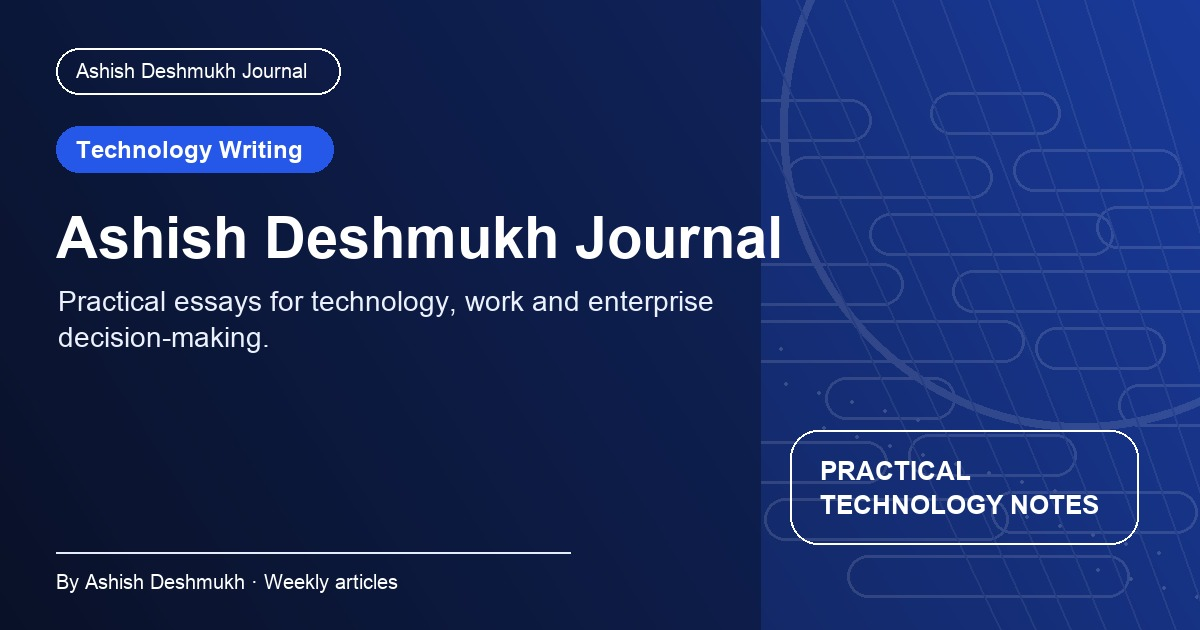
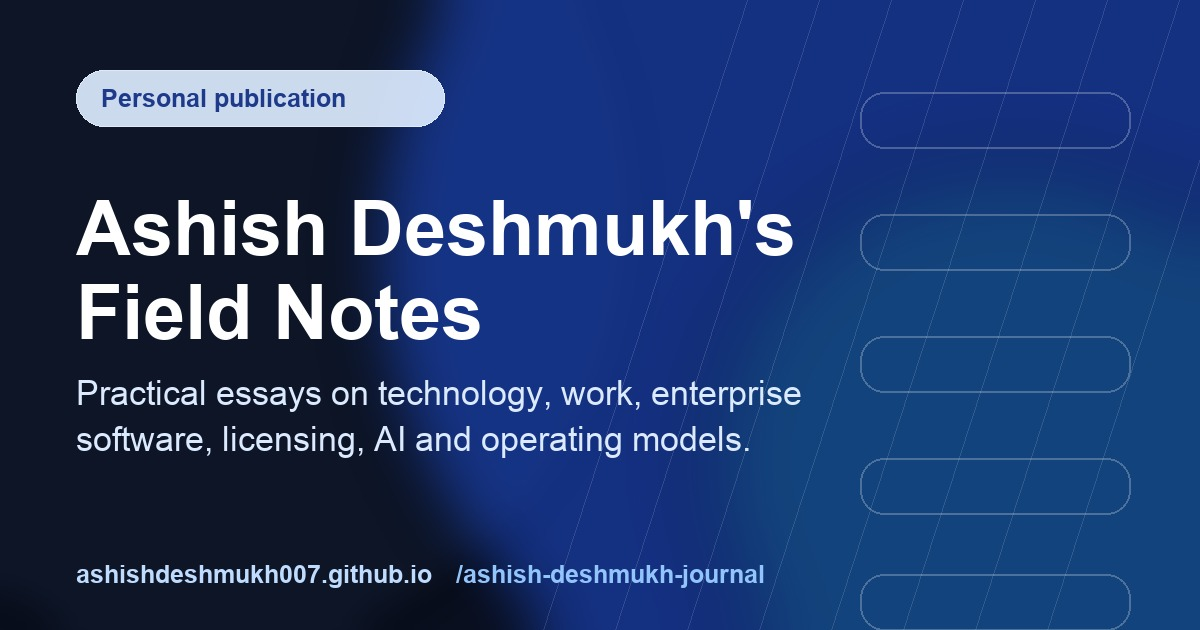
Refresh journal branding and article dates

diff --git a/index.html b/index.html
@@ -1,6 +1,6 @@
 <!doctype html><html lang="en"><head><meta charset="utf-8"><meta name="viewport" content="width=device-width, initial-scale=1">
-<title>Ashish Deshmukh Journal</title><meta name="description" content="Long-form practical articles by Ashish Deshmukh.">
-<meta property="og:title" content="Ashish Deshmukh Journal"><meta property="og:description" content="Practical writing on technology, systems, work and enterprise execution.">
+<title>Ashish Deshmukh's Field Notes</title><meta name="description" content="Long-form practical articles by Ashish Deshmukh.">
+<meta property="og:title" content="Ashish Deshmukh's Field Notes"><meta property="og:description" content="Practical writing on technology, systems, work and enterprise execution.">
 <link rel="stylesheet" href="assets/styles.css">
 
 <meta property="og:url" content="https://ashishdeshmukh007.github.io/ashish-deshmukh-journal/">
@@ -8,103 +8,103 @@
 <meta property="og:image:secure_url" content="https://ashishdeshmukh007.github.io/ashish-deshmukh-journal/assets/social/ashish-deshmukh-journal.jpg">
 <meta property="og:image:width" content="1200">
 <meta property="og:image:height" content="630">
-<meta property="og:image:alt" content="Ashish Deshmukh Journal">
-<meta name="twitter:title" content="Ashish Deshmukh Journal">
+<meta property="og:image:alt" content="Ashish Deshmukh's Field Notes">
+<meta name="twitter:title" content="Ashish Deshmukh's Field Notes">
 <meta name="twitter:description" content="Practical writing on technology, systems, work and enterprise execution.">
 <meta name="twitter:image" content="https://ashishdeshmukh007.github.io/ashish-deshmukh-journal/assets/social/ashish-deshmukh-journal.jpg">
 </head><body><header class="site-header"><nav class="nav">
-<a class="logo" href="index.html">Ashish Deshmukh <span>Journal</span></a>
+<a class="logo" href="index.html">Ashish Deshmukh's <span>Field Notes</span></a>
 <div class="nav-links">
   <a href="index.html#articles">Articles</a>
   <a href="index.html#topics">Topics</a>
   <form class="nav-search" data-site-search role="search"><input data-article-search type="search" placeholder="Search writing"><button type="submit">Go</button></form>
   <button class="theme-toggle" type="button" data-theme-toggle>Dark</button>
 </div></nav></header>
-<section class="hero"><div class="hero-inner"><span class="kicker">Ashish Deshmukh Journal</span><h1>Practical essays for technology, work and enterprise decision-making.</h1><p class="deck">Long-form writing on enterprise software, delivery, cloud, licensing, AI, operating models, career growth and the craft of making complex work understandable.</p></div></section>
+<section class="hero"><div class="hero-inner"><span class="kicker">Ashish Deshmukh's Field Notes</span><h1>Field-tested essays for technology, work and enterprise decisions.</h1><p class="deck">Long-form writing on enterprise software, delivery, cloud, licensing, AI, operating models, career growth and the craft of making complex work understandable.</p></div></section>
 <section class="utility-band"><div class="utility-inner"><div class="utility-card"><strong>Search the library</strong><p>Use the header search to quickly filter current and future articles.</p></div><div class="utility-card"><strong>Save and share</strong><p>Each article has individual social sharing, workbook downloads where relevant, and a direct copy link.</p></div><div class="utility-card"><strong>Reader response</strong><p>Likes, shares and comments appear at the bottom of every article.</p></div></div></section>
 <main class="home-section" id="articles"><h2 class="section-title">Latest writing</h2><p class="section-copy">A growing article library by Ashish Deshmukh. The first collection focuses on enterprise licensing, and future posts can expand into any technology or work topic.</p><div class="article-grid"><a class="article-card" data-article-card href="articles/flexera-one-vs-servicenow-sam-pro-2026-comparison.html">
           <span class="cat">Tool Comparison</span>
           <h2>Flexera One vs ServiceNow SAM Pro in 2026: An Architecture and Operations Comparison</h2>
           <p>Enterprise SAM teams are rarely choosing between Flexera and ServiceNow on a blank slate. Here is how they compare across discovery, publisher logical engines, automation, SaaS/Cloud ITAM convergence, and audit defensibility.</p>
-          <div class="meta">By Ashish Deshmukh on May 28, 2026</div>
+          <div class="meta">By Ashish Deshmukh on May 29, 2026</div>
         </a>
 <a class="article-card" data-article-card href="articles/servicenow-sam-pro-now-assist-2026-license-management-playbook.html">
           <span class="cat">ServiceNow SAM Pro</span>
           <h2>ServiceNow SAM Pro and Now Assist in 2026: A Practical License Management Playbook</h2>
           <p>ServiceNow SAM Pro is moving from license repository to workflow control plane. The opportunity is real, but only if SAM teams protect evidence quality, publisher logic, and audit defensibility.</p>
-          <div class="meta">By Ashish Deshmukh on May 28, 2026</div>
+          <div class="meta">By Ashish Deshmukh on May 22, 2026</div>
         </a>
 <a class="article-card" data-article-card href="articles/oracle-software-asset-management-processor-nup-vmware-options-java-lms-defense.html">
           <span class="cat">Oracle Licensing</span>
           <h2>Oracle Software Asset Management: Processor, NUP, VMware, Options, Java and LMS Defense</h2>
           <p>A practical Oracle SAM article covering processor metrics, NUP minimums, virtualization, options and packs, Java, ULA logic, FNMS and audit mechanics.</p>
-          <div class="meta">By Ashish Deshmukh on May 25, 2026</div>
+          <div class="meta">By Ashish Deshmukh on May 15, 2026</div>
         </a>
 <a class="article-card" data-article-card href="articles/microsoft-software-asset-management-sql-windows-m365-ea-fnms-elp.html">
           <span class="cat">Microsoft Licensing</span>
           <h2>Microsoft Software Asset Management: SQL, Windows Server, M365, EA True-Up and FNMS ELP</h2>
           <p>A field guide to Microsoft licensing across SQL Server, Windows Server, M365, CALs, Azure Hybrid Benefit, EA true-up and FNMS validation.</p>
-          <div class="meta">By Ashish Deshmukh on May 21, 2026</div>
+          <div class="meta">By Ashish Deshmukh on May 8, 2026</div>
         </a>
 <a class="article-card" data-article-card href="articles/ibm-software-asset-management-elp-ilmt-fnms-audit-defense.html">
           <span class="cat">IBM Licensing</span>
           <h2>IBM Software Asset Management: A Practical Guide to ELP, ILMT, FNMS and Audit Defense</h2>
           <p>A practitioner guide to IBM PVU, VPC, Passport Advantage, ILMT, FNMS reconciliation, contracts, audit defense and executive reporting.</p>
-          <div class="meta">By Ashish Deshmukh on May 14, 2026</div>
+          <div class="meta">By Ashish Deshmukh on May 1, 2026</div>
         </a>
 <a class="article-card" data-article-card href="articles/flexera-one-itam-2026-license-operations-playbook.html">
           <span class="cat">Flexera ITAM</span>
           <h2>Flexera One ITAM in 2026: A License Operations Playbook for SAM Teams</h2>
           <p>Flexera One ITAM is becoming a broader technology value platform. Here is how SAM teams should use it for ELP quality, SaaS visibility, IBM sub-capacity, and audit defense.</p>
-          <div class="meta">By Ashish Deshmukh on May 7, 2026</div>
+          <div class="meta">By Ashish Deshmukh on April 24, 2026</div>
         </a>
 <a class="article-card" data-article-card href="articles/microsoft-365-copilot-license-management-2026.html">
           <span class="cat">Microsoft Licensing</span>
           <h2>Microsoft 365 Copilot License Management in 2026: From Pilot Excitement to Cost Control</h2>
           <p>Microsoft 365 Copilot licensing now needs the same discipline as any major enterprise software program: eligibility, assignment, usage, governance, and renewal control.</p>
-          <div class="meta">By Ashish Deshmukh on April 30, 2026</div>
+          <div class="meta">By Ashish Deshmukh on April 17, 2026</div>
         </a>
 <a class="article-card" data-article-card href="articles/oracle-java-employee-metric-audit-readiness-2026.html">
           <span class="cat">Oracle Licensing</span>
           <h2>Oracle Java Employee Metric in 2026: The Audit Readiness Guide Most Teams Still Need</h2>
           <p>Oracle Java is no longer just an install-count cleanup exercise. The employee metric changes the evidence model, negotiation posture, and audit defense plan.</p>
-          <div class="meta">By Ashish Deshmukh on April 23, 2026</div>
+          <div class="meta">By Ashish Deshmukh on April 10, 2026</div>
         </a>
 <a class="article-card" data-article-card href="articles/ibm-cloud-pak-vpc-license-service-control-model.html">
           <span class="cat">IBM Licensing</span>
           <h2>IBM Cloud Pak VPC Licensing: How to Build a Control Model Around IBM License Service</h2>
           <p>Cloud Pak licensing is not just PVU with a new label. VPC ratios, container reporting, IBM License Service, and OpenShift operations change the SAM control model.</p>
-          <div class="meta">By Ashish Deshmukh on April 16, 2026</div>
+          <div class="meta">By Ashish Deshmukh on April 3, 2026</div>
         </a>
 <a class="article-card" data-article-card href="articles/finops-itam-convergence-technology-value-2026.html">
-          <span class="cat">Cloud &amp;amp; FinOps</span>
+          <span class="cat">Cloud &amp; FinOps</span>
           <h2>FinOps and ITAM Are Converging: A 2026 Technology Value Operating Model</h2>
           <p>FinOps has expanded beyond public cloud. SaaS, licensing, AI, data centers, and software contracts now belong in one technology value conversation.</p>
-          <div class="meta">By Ashish Deshmukh on April 9, 2026</div>
+          <div class="meta">By Ashish Deshmukh on March 27, 2026</div>
         </a>
 <a class="article-card" data-article-card href="articles/audit-defense-using-servicenow-sam-pro-and-flexera.html">
           <span class="cat">Audit Defense</span>
           <h2>Audit Defense Using ServiceNow SAM Pro and Flexera: What to Prepare Before the Publisher Calls</h2>
           <p>SAM tools help audit defense only when the evidence trail is stronger than the dashboard. Here is a practical audit pack for ServiceNow SAM Pro and Flexera environments.</p>
-          <div class="meta">By Ashish Deshmukh on April 2, 2026</div>
+          <div class="meta">By Ashish Deshmukh on March 20, 2026</div>
         </a>
 <a class="article-card" data-article-card href="articles/ai-at-work-governance-license-risk-playbook.html">
           <span class="cat">AI at Work</span>
           <h2>AI at Work Governance: The License and Compliance Risks Hiding Behind Productivity Pilots</h2>
           <p>Enterprise AI adoption creates a new SAM problem: subscriptions, model access, data controls, software supply-chain licensing, and usage accountability all need governance.</p>
-          <div class="meta">By Ashish Deshmukh on March 26, 2026</div>
+          <div class="meta">By Ashish Deshmukh on March 13, 2026</div>
         </a>
 <a class="article-card" data-article-card href="articles/contract-intelligence-for-software-asset-management.html">
           <span class="cat">Enterprise Software</span>
           <h2>Contract Intelligence for Software Asset Management: Turning Agreements into Actionable License Controls</h2>
           <p>AI contract extraction is useful only if SAM teams convert extracted terms into entitlement, obligation, renewal, and audit controls.</p>
-          <div class="meta">By Ashish Deshmukh on March 19, 2026</div>
+          <div class="meta">By Ashish Deshmukh on March 6, 2026</div>
         </a>
 <a class="article-card" data-article-card href="articles/sam-operating-model-2026-delivery-playbook.html">
           <span class="cat">Operating Models</span>
           <h2>The 2026 SAM Operating Model: From Compliance Reports to a Delivery Playbook</h2>
           <p>A modern SAM function needs workflow ownership, evidence standards, tooling discipline, FinOps alignment, audit readiness, and business-facing service design.</p>
-          <div class="meta">By Ashish Deshmukh on March 12, 2026</div>
+          <div class="meta">By Ashish Deshmukh on February 27, 2026</div>
         </a></div></main>
 <section class="home-section" id="topics"><h2 class="section-title">Topics</h2><p class="section-copy">The site is designed as a broad personal publication, not a single-topic portal.</p><div class="topic-strip"><span class="topic-chip">Technology Strategy</span>
 <span class="topic-chip">Enterprise Software</span>

diff --git a/articles/servicenow-sam-pro-now-assist-2026-license-management-playbook.html b/articles/servicenow-sam-pro-now-assist-2026-license-management-playbook.html
@@ -16,7 +16,7 @@
 <meta name="twitter:image" content="https://ashishdeshmukh007.github.io/ashish-deshmukh-journal/assets/social/servicenow-sam-pro-now-assist-2026-license-management-playbook.jpg">
 <link rel="stylesheet" href="../assets/styles.css">
 </head><body data-article-slug="servicenow-sam-pro-now-assist-2026-license-management-playbook"><div class="reading-progress" data-reading-progress></div><header class="site-header"><nav class="nav">
-<a class="logo" href="../index.html">Ashish Deshmukh <span>Journal</span></a>
+<a class="logo" href="../index.html">Ashish Deshmukh's <span>Field Notes</span></a>
 <div class="nav-links">
   <a href="../index.html#articles">Articles</a>
   <a href="../index.html#topics">Topics</a>
@@ -29,7 +29,7 @@
       <div class="cat">ServiceNow SAM Pro</div>
       <h1>ServiceNow SAM Pro and Now Assist in 2026: A Practical License Management Playbook</h1>
       <p class="deck" style="color:#475467">ServiceNow SAM Pro is moving from license repository to workflow control plane. The opportunity is real, but only if SAM teams protect evidence quality, publisher logic, and audit defensibility.</p>
-      <div class="byline"><div class="avatar">AD</div><div><strong>By Ashish Deshmukh on May 28, 2026</strong><br>15 min read</div></div>
+      <div class="byline"><div class="avatar">AD</div><div><strong>By Ashish Deshmukh on May 22, 2026</strong><br>15 min read</div></div>
       <div class="share-row">
         <a class="primary" href="#" data-share-linkedin target="_blank" rel="noopener">Share on LinkedIn</a>
         <a href="#" data-share-x target="_blank" rel="noopener">Share on X</a>
@@ -187,7 +187,7 @@
             <h2>Sources</h2>
             <button class="mini-btn" onclick="printSection('sources')">Print this section</button>
           </div>
-          <p>This article was prepared from current public ServiceNow materials and product documentation reviewed on May 28, 2026.</p>
+          <p>This article was prepared from current public ServiceNow materials and product documentation reviewed on May 22, 2026.</p>
           <ul>
             <li><a href="https://www.servicenow.com/docs/bundle/yokohama-release-notes/page/release-notes/it-asset-management/software-asset-management-rn.html" target="_blank" rel="noopener">ServiceNow Software Asset Management Yokohama release notes</a></li>
             <li><a href="https://www.servicenow.com/docs/r/store-release-notes/store-rn-itam-now-assist-sam.html" target="_blank" rel="noopener">ServiceNow Store release notes for Now Assist for Software Asset Management</a></li>

diff --git a/articles/flexera-one-vs-servicenow-sam-pro-2026-comparison.html b/articles/flexera-one-vs-servicenow-sam-pro-2026-comparison.html
@@ -16,7 +16,7 @@
 <meta name="twitter:image" content="https://ashishdeshmukh007.github.io/ashish-deshmukh-journal/assets/social/flexera-one-vs-servicenow-sam-pro-2026-comparison.jpg">
 <link rel="stylesheet" href="../assets/styles.css">
 </head><body data-article-slug="flexera-one-vs-servicenow-sam-pro-2026-comparison"><div class="reading-progress" data-reading-progress></div><header class="site-header"><nav class="nav">
-<a class="logo" href="../index.html">Ashish Deshmukh <span>Journal</span></a>
+<a class="logo" href="../index.html">Ashish Deshmukh's <span>Field Notes</span></a>
 <div class="nav-links">
   <a href="../index.html#articles">Articles</a>
   <a href="../index.html#topics">Topics</a>
@@ -29,7 +29,7 @@
       <div class="cat">Tool Comparison</div>
       <h1>Flexera One vs ServiceNow SAM Pro in 2026: An Architecture and Operations Comparison</h1>
       <p class="deck" style="color:#475467">Enterprise SAM teams are rarely choosing between Flexera and ServiceNow on a blank slate. Here is how they compare across discovery, publisher logical engines, automation, SaaS/Cloud ITAM convergence, and audit defensibility.</p>
-      <div class="byline"><div class="avatar">AD</div><div><strong>By Ashish Deshmukh on May 28, 2026</strong><br>15 min read</div></div>
+      <div class="byline"><div class="avatar">AD</div><div><strong>By Ashish Deshmukh on May 29, 2026</strong><br>15 min read</div></div>
       <div class="share-row">
         <a class="primary" href="#" data-share-linkedin target="_blank" rel="noopener">Share on LinkedIn</a>
         <a href="#" data-share-x target="_blank" rel="noopener">Share on X</a>

diff --git a/articles/audit-defense-using-servicenow-sam-pro-and-flexera.html b/articles/audit-defense-using-servicenow-sam-pro-and-flexera.html
@@ -16,7 +16,7 @@
 <meta name="twitter:image" content="https://ashishdeshmukh007.github.io/ashish-deshmukh-journal/assets/social/audit-defense-using-servicenow-sam-pro-and-flexera.jpg">
 <link rel="stylesheet" href="../assets/styles.css">
 </head><body data-article-slug="audit-defense-using-servicenow-sam-pro-and-flexera"><div class="reading-progress" data-reading-progress></div><header class="site-header"><nav class="nav">
-<a class="logo" href="../index.html">Ashish Deshmukh <span>Journal</span></a>
+<a class="logo" href="../index.html">Ashish Deshmukh's <span>Field Notes</span></a>
 <div class="nav-links">
   <a href="../index.html#articles">Articles</a>
   <a href="../index.html#topics">Topics</a>
@@ -29,7 +29,7 @@
       <div class="cat">Audit Defense</div>
       <h1>Audit Defense Using ServiceNow SAM Pro and Flexera: What to Prepare Before the Publisher Calls</h1>
       <p class="deck" style="color:#475467">SAM tools help audit defense only when the evidence trail is stronger than the dashboard. Here is a practical audit pack for ServiceNow SAM Pro and Flexera environments.</p>
-      <div class="byline"><div class="avatar">AD</div><div><strong>By Ashish Deshmukh on April 2, 2026</strong><br>12 min read</div></div>
+      <div class="byline"><div class="avatar">AD</div><div><strong>By Ashish Deshmukh on March 20, 2026</strong><br>12 min read</div></div>
       <div class="share-row">
         <a class="primary" href="#" data-share-linkedin target="_blank" rel="noopener">Share on LinkedIn</a>
         <a href="#" data-share-x target="_blank" rel="noopener">Share on X</a>

diff --git a/articles/microsoft-365-copilot-license-management-2026.html b/articles/microsoft-365-copilot-license-management-2026.html
@@ -16,7 +16,7 @@
 <meta name="twitter:image" content="https://ashishdeshmukh007.github.io/ashish-deshmukh-journal/assets/social/microsoft-365-copilot-license-management-2026.jpg">
 <link rel="stylesheet" href="../assets/styles.css">
 </head><body data-article-slug="microsoft-365-copilot-license-management-2026"><div class="reading-progress" data-reading-progress></div><header class="site-header"><nav class="nav">
-<a class="logo" href="../index.html">Ashish Deshmukh <span>Journal</span></a>
+<a class="logo" href="../index.html">Ashish Deshmukh's <span>Field Notes</span></a>
 <div class="nav-links">
   <a href="../index.html#articles">Articles</a>
   <a href="../index.html#topics">Topics</a>
@@ -29,7 +29,7 @@
       <div class="cat">Microsoft Licensing</div>
       <h1>Microsoft 365 Copilot License Management in 2026: From Pilot Excitement to Cost Control</h1>
       <p class="deck" style="color:#475467">Microsoft 365 Copilot licensing now needs the same discipline as any major enterprise software program: eligibility, assignment, usage, governance, and renewal control.</p>
-      <div class="byline"><div class="avatar">AD</div><div><strong>By Ashish Deshmukh on April 30, 2026</strong><br>12 min read</div></div>
+      <div class="byline"><div class="avatar">AD</div><div><strong>By Ashish Deshmukh on April 17, 2026</strong><br>12 min read</div></div>
       <div class="share-row">
         <a class="primary" href="#" data-share-linkedin target="_blank" rel="noopener">Share on LinkedIn</a>
         <a href="#" data-share-x target="_blank" rel="noopener">Share on X</a>

diff --git a/articles/ai-at-work-governance-license-risk-playbook.html b/articles/ai-at-work-governance-license-risk-playbook.html
@@ -16,7 +16,7 @@
 <meta name="twitter:image" content="https://ashishdeshmukh007.github.io/ashish-deshmukh-journal/assets/social/ai-at-work-governance-license-risk-playbook.jpg">
 <link rel="stylesheet" href="../assets/styles.css">
 </head><body data-article-slug="ai-at-work-governance-license-risk-playbook"><div class="reading-progress" data-reading-progress></div><header class="site-header"><nav class="nav">
-<a class="logo" href="../index.html">Ashish Deshmukh <span>Journal</span></a>
+<a class="logo" href="../index.html">Ashish Deshmukh's <span>Field Notes</span></a>
 <div class="nav-links">
   <a href="../index.html#articles">Articles</a>
   <a href="../index.html#topics">Topics</a>
@@ -29,7 +29,7 @@
       <div class="cat">AI at Work</div>
       <h1>AI at Work Governance: The License and Compliance Risks Hiding Behind Productivity Pilots</h1>
       <p class="deck" style="color:#475467">Enterprise AI adoption creates a new SAM problem: subscriptions, model access, data controls, software supply-chain licensing, and usage accountability all need governance.</p>
-      <div class="byline"><div class="avatar">AD</div><div><strong>By Ashish Deshmukh on March 26, 2026</strong><br>12 min read</div></div>
+      <div class="byline"><div class="avatar">AD</div><div><strong>By Ashish Deshmukh on March 13, 2026</strong><br>12 min read</div></div>
       <div class="share-row">
         <a class="primary" href="#" data-share-linkedin target="_blank" rel="noopener">Share on LinkedIn</a>
         <a href="#" data-share-x target="_blank" rel="noopener">Share on X</a>

diff --git a/articles/contract-intelligence-for-software-asset-management.html b/articles/contract-intelligence-for-software-asset-management.html
@@ -16,7 +16,7 @@
 <meta name="twitter:image" content="https://ashishdeshmukh007.github.io/ashish-deshmukh-journal/assets/social/contract-intelligence-for-software-asset-management.jpg">
 <link rel="stylesheet" href="../assets/styles.css">
 </head><body data-article-slug="contract-intelligence-for-software-asset-management"><div class="reading-progress" data-reading-progress></div><header class="site-header"><nav class="nav">
-<a class="logo" href="../index.html">Ashish Deshmukh <span>Journal</span></a>
+<a class="logo" href="../index.html">Ashish Deshmukh's <span>Field Notes</span></a>
 <div class="nav-links">
   <a href="../index.html#articles">Articles</a>
   <a href="../index.html#topics">Topics</a>
@@ -29,7 +29,7 @@
       <div class="cat">Enterprise Software</div>
       <h1>Contract Intelligence for Software Asset Management: Turning Agreements into Actionable License Controls</h1>
       <p class="deck" style="color:#475467">AI contract extraction is useful only if SAM teams convert extracted terms into entitlement, obligation, renewal, and audit controls.</p>
-      <div class="byline"><div class="avatar">AD</div><div><strong>By Ashish Deshmukh on March 19, 2026</strong><br>12 min read</div></div>
+      <div class="byline"><div class="avatar">AD</div><div><strong>By Ashish Deshmukh on March 6, 2026</strong><br>12 min read</div></div>
       <div class="share-row">
         <a class="primary" href="#" data-share-linkedin target="_blank" rel="noopener">Share on LinkedIn</a>
         <a href="#" data-share-x target="_blank" rel="noopener">Share on X</a>

diff --git a/articles/oracle-java-employee-metric-audit-readiness-2026.html b/articles/oracle-java-employee-metric-audit-readiness-2026.html
@@ -16,7 +16,7 @@
 <meta name="twitter:image" content="https://ashishdeshmukh007.github.io/ashish-deshmukh-journal/assets/social/oracle-java-employee-metric-audit-readiness-2026.jpg">
 <link rel="stylesheet" href="../assets/styles.css">
 </head><body data-article-slug="oracle-java-employee-metric-audit-readiness-2026"><div class="reading-progress" data-reading-progress></div><header class="site-header"><nav class="nav">
-<a class="logo" href="../index.html">Ashish Deshmukh <span>Journal</span></a>
+<a class="logo" href="../index.html">Ashish Deshmukh's <span>Field Notes</span></a>
 <div class="nav-links">
   <a href="../index.html#articles">Articles</a>
   <a href="../index.html#topics">Topics</a>
@@ -29,7 +29,7 @@
       <div class="cat">Oracle Licensing</div>
       <h1>Oracle Java Employee Metric in 2026: The Audit Readiness Guide Most Teams Still Need</h1>
       <p class="deck" style="color:#475467">Oracle Java is no longer just an install-count cleanup exercise. The employee metric changes the evidence model, negotiation posture, and audit defense plan.</p>
-      <div class="byline"><div class="avatar">AD</div><div><strong>By Ashish Deshmukh on April 23, 2026</strong><br>12 min read</div></div>
+      <div class="byline"><div class="avatar">AD</div><div><strong>By Ashish Deshmukh on April 10, 2026</strong><br>12 min read</div></div>
       <div class="share-row">
         <a class="primary" href="#" data-share-linkedin target="_blank" rel="noopener">Share on LinkedIn</a>
         <a href="#" data-share-x target="_blank" rel="noopener">Share on X</a>

diff --git a/articles/ibm-cloud-pak-vpc-license-service-control-model.html b/articles/ibm-cloud-pak-vpc-license-service-control-model.html
@@ -16,7 +16,7 @@
 <meta name="twitter:image" content="https://ashishdeshmukh007.github.io/ashish-deshmukh-journal/assets/social/ibm-cloud-pak-vpc-license-service-control-model.jpg">
 <link rel="stylesheet" href="../assets/styles.css">
 </head><body data-article-slug="ibm-cloud-pak-vpc-license-service-control-model"><div class="reading-progress" data-reading-progress></div><header class="site-header"><nav class="nav">
-<a class="logo" href="../index.html">Ashish Deshmukh <span>Journal</span></a>
+<a class="logo" href="../index.html">Ashish Deshmukh's <span>Field Notes</span></a>
 <div class="nav-links">
   <a href="../index.html#articles">Articles</a>
   <a href="../index.html#topics">Topics</a>
@@ -29,7 +29,7 @@
       <div class="cat">IBM Licensing</div>
       <h1>IBM Cloud Pak VPC Licensing: How to Build a Control Model Around IBM License Service</h1>
       <p class="deck" style="color:#475467">Cloud Pak licensing is not just PVU with a new label. VPC ratios, container reporting, IBM License Service, and OpenShift operations change the SAM control model.</p>
-      <div class="byline"><div class="avatar">AD</div><div><strong>By Ashish Deshmukh on April 16, 2026</strong><br>12 min read</div></div>
+      <div class="byline"><div class="avatar">AD</div><div><strong>By Ashish Deshmukh on April 3, 2026</strong><br>12 min read</div></div>
       <div class="share-row">
         <a class="primary" href="#" data-share-linkedin target="_blank" rel="noopener">Share on LinkedIn</a>
         <a href="#" data-share-x target="_blank" rel="noopener">Share on X</a>

diff --git a/articles/flexera-one-itam-2026-license-operations-playbook.html b/articles/flexera-one-itam-2026-license-operations-playbook.html
@@ -16,7 +16,7 @@
 <meta name="twitter:image" content="https://ashishdeshmukh007.github.io/ashish-deshmukh-journal/assets/social/flexera-one-itam-2026-license-operations-playbook.jpg">
 <link rel="stylesheet" href="../assets/styles.css">
 </head><body data-article-slug="flexera-one-itam-2026-license-operations-playbook"><div class="reading-progress" data-reading-progress></div><header class="site-header"><nav class="nav">
-<a class="logo" href="../index.html">Ashish Deshmukh <span>Journal</span></a>
+<a class="logo" href="../index.html">Ashish Deshmukh's <span>Field Notes</span></a>
 <div class="nav-links">
   <a href="../index.html#articles">Articles</a>
   <a href="../index.html#topics">Topics</a>
@@ -29,7 +29,7 @@
       <div class="cat">Flexera ITAM</div>
       <h1>Flexera One ITAM in 2026: A License Operations Playbook for SAM Teams</h1>
       <p class="deck" style="color:#475467">Flexera One ITAM is becoming a broader technology value platform. Here is how SAM teams should use it for ELP quality, SaaS visibility, IBM sub-capacity, and audit defense.</p>
-      <div class="byline"><div class="avatar">AD</div><div><strong>By Ashish Deshmukh on May 7, 2026</strong><br>12 min read</div></div>
+      <div class="byline"><div class="avatar">AD</div><div><strong>By Ashish Deshmukh on April 24, 2026</strong><br>12 min read</div></div>
       <div class="share-row">
         <a class="primary" href="#" data-share-linkedin target="_blank" rel="noopener">Share on LinkedIn</a>
         <a href="#" data-share-x target="_blank" rel="noopener">Share on X</a>

diff --git a/articles/sam-operating-model-2026-delivery-playbook.html b/articles/sam-operating-model-2026-delivery-playbook.html
@@ -16,7 +16,7 @@
 <meta name="twitter:image" content="https://ashishdeshmukh007.github.io/ashish-deshmukh-journal/assets/social/sam-operating-model-2026-delivery-playbook.jpg">
 <link rel="stylesheet" href="../assets/styles.css">
 </head><body data-article-slug="sam-operating-model-2026-delivery-playbook"><div class="reading-progress" data-reading-progress></div><header class="site-header"><nav class="nav">
-<a class="logo" href="../index.html">Ashish Deshmukh <span>Journal</span></a>
+<a class="logo" href="../index.html">Ashish Deshmukh's <span>Field Notes</span></a>
 <div class="nav-links">
   <a href="../index.html#articles">Articles</a>
   <a href="../index.html#topics">Topics</a>
@@ -29,7 +29,7 @@
       <div class="cat">Operating Models</div>
       <h1>The 2026 SAM Operating Model: From Compliance Reports to a Delivery Playbook</h1>
       <p class="deck" style="color:#475467">A modern SAM function needs workflow ownership, evidence standards, tooling discipline, FinOps alignment, audit readiness, and business-facing service design.</p>
-      <div class="byline"><div class="avatar">AD</div><div><strong>By Ashish Deshmukh on March 12, 2026</strong><br>12 min read</div></div>
+      <div class="byline"><div class="avatar">AD</div><div><strong>By Ashish Deshmukh on February 27, 2026</strong><br>12 min read</div></div>
       <div class="share-row">
         <a class="primary" href="#" data-share-linkedin target="_blank" rel="noopener">Share on LinkedIn</a>
         <a href="#" data-share-x target="_blank" rel="noopener">Share on X</a>

diff --git a/articles/finops-itam-convergence-technology-value-2026.html b/articles/finops-itam-convergence-technology-value-2026.html
@@ -16,7 +16,7 @@
 <meta name="twitter:image" content="https://ashishdeshmukh007.github.io/ashish-deshmukh-journal/assets/social/finops-itam-convergence-technology-value-2026.jpg">
 <link rel="stylesheet" href="../assets/styles.css">
 </head><body data-article-slug="finops-itam-convergence-technology-value-2026"><div class="reading-progress" data-reading-progress></div><header class="site-header"><nav class="nav">
-<a class="logo" href="../index.html">Ashish Deshmukh <span>Journal</span></a>
+<a class="logo" href="../index.html">Ashish Deshmukh's <span>Field Notes</span></a>
 <div class="nav-links">
   <a href="../index.html#articles">Articles</a>
   <a href="../index.html#topics">Topics</a>
@@ -29,7 +29,7 @@
       <div class="cat">Cloud &amp; FinOps</div>
       <h1>FinOps and ITAM Are Converging: A 2026 Technology Value Operating Model</h1>
       <p class="deck" style="color:#475467">FinOps has expanded beyond public cloud. SaaS, licensing, AI, data centers, and software contracts now belong in one technology value conversation.</p>
-      <div class="byline"><div class="avatar">AD</div><div><strong>By Ashish Deshmukh on April 9, 2026</strong><br>12 min read</div></div>
+      <div class="byline"><div class="avatar">AD</div><div><strong>By Ashish Deshmukh on March 27, 2026</strong><br>12 min read</div></div>
       <div class="share-row">
         <a class="primary" href="#" data-share-linkedin target="_blank" rel="noopener">Share on LinkedIn</a>
         <a href="#" data-share-x target="_blank" rel="noopener">Share on X</a>
